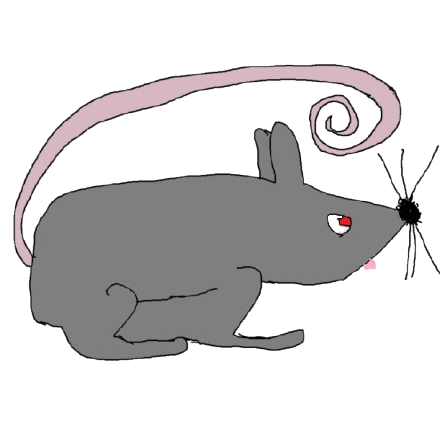
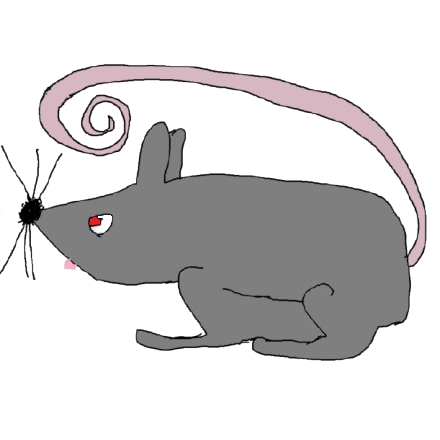
Update readme.

diff --git a/README.md b/README.md
@@ -1,18 +1,37 @@
 # rat [![test (ubuntu-latest)](https://github.com/hexratcc/rat/actions/workflows/test_ubuntu_latest.yml/badge.svg)](https://github.com/hexratcc/rat/actions/workflows/test_ubuntu_latest.yml)
 
-<img align="right" src="./assets/emanuel.png" alt="emanuel" width="160">
+<img align="right" src="./assets/emanuel.png" alt="emanuel" width="210">
 
-**warning: wip**
+rat is a simple, handmade, and *relatively* minimal compiler suite ([**C99 frontend**](./src/compiler/), simple [**linker**](./src/linker/), and a [**Sea of Nodes**](https://en.wikipedia.org/wiki/Sea_of_nodes) [**backend**](./src/backend/)). Some of the features include but are not limited to:
+- `rat -O1` compiles `sqlite3.c` about 17x faster than `clang -O1`)
+- `rat -O1` code runs within 5% of `gcc -O1` and 26% of `clang -O1`.
+- rat is small, readable and easy to hack on.
 
-rat is a simple [Sea of Nodes](https://en.wikipedia.org/wiki/Sea_of_nodes) compiler backend, which aims to be reasonably fast, while being relatively simple (the core is currently about 15k LoC). As a proof of concept of the backend, I'm working on a C99 frontend for it which can be found [here](./src/compiler/). The frontend is about 1.3x slower than gcc in terms of runtime, but has about 10x faster compile times.
-
-## running
+### running
 ```shell
 $ make
 $ make test
 $ make bench
 ```
-
-<!-- ## performance
-![perf](https://raw.githubusercontent.com/hexratcc/rat/perf/perf.png)
-![compile](https://raw.githubusercontent.com/hexratcc/rat/perf/compile.png) -->
+### optimization passes
+- [**sccp**](./src/backend/pass/opt/sccp.cpp): sparse conditional constant propagation
+- [**fold**](./src/backend/pass/opt/fold.cpp): constant folding, algebraic simplification
+- [**simplifycfg**](./src/backend/pass/opt/simplify_cfg.cpp): control-flow simplification
+- [**gvn**](./src/backend/pass/opt/gvn.cpp): global value numbering
+- [**memoryopt**](./src/backend/pass/opt/memory_opt.cpp): load/store forwarding
+- [**inline**](./src/backend/pass/opt/inline.cpp): function inlining
+- [**strengthreduce**](./src/backend/pass/opt/strength_reduce.cpp): induction-variable strength reduction
+- [**loadcanon**](./src/backend/pass/opt/load_canon.cpp): moves loads to their canonical memory state
+- [**slp**](./src/backend/pass/opt/slp/): scheduling-free SLP vectorization with runtime alias guards
+- [**dfe**](./src/backend/pass/opt/dead_func_elim.cpp): dead function elimination
+### machine passes
+- [**GCM**](./src/backend/codegen/schedule.cpp): global code motion
+- [**x86-lower**](./src/backend/pass/emit/x86/x86_lower.cpp): instruction selection
+- [**regalloc**](./src/backend/codegen/reg_alloc.cpp): bin-packing register allocation
+- [**x86-peephole**](./src/backend/pass/emit/x86/x86_peephole.cpp): copy and spill cleanup
+- [**x86-layout**](./src/backend/pass/emit/x86/x86_layout.cpp): block layout, loop alignment
+- [**x86-encode**](./src/backend/pass/emit/x86/x86_encode.cpp): encoding and object emission
+### tool passes
+- [**verify**](./src/backend/pass/verify.cpp): IR invariant checks
+- [**text-emitter**](./src/backend/pass/emit/text_emitter.cpp): IR dumps as Graphviz
+- [**graph-emitter**](./src/backend/pass/emit/graph_emitter.cpp): IR dumps as text
